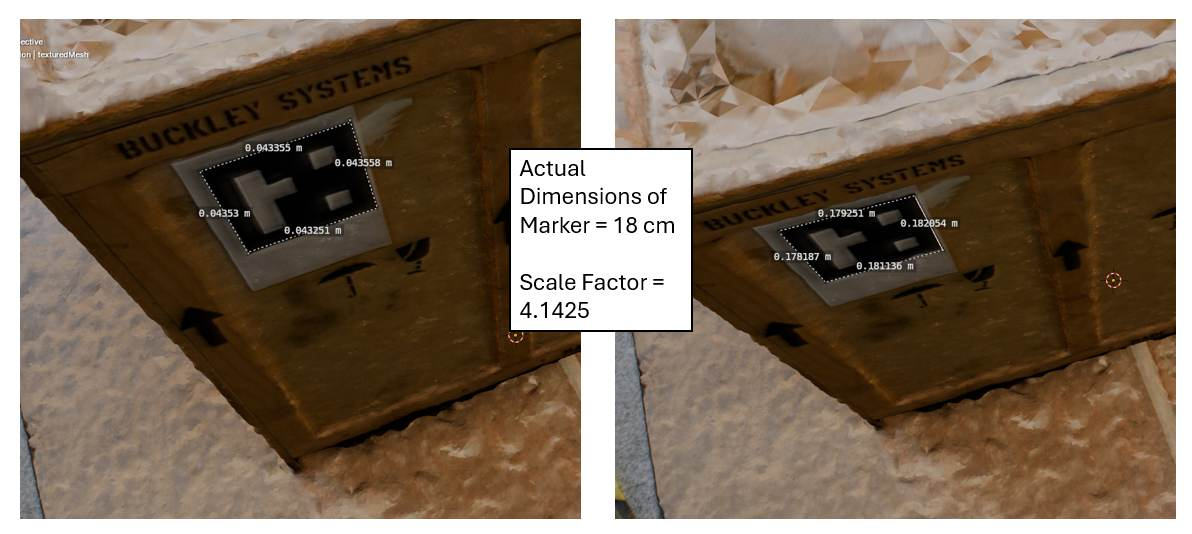
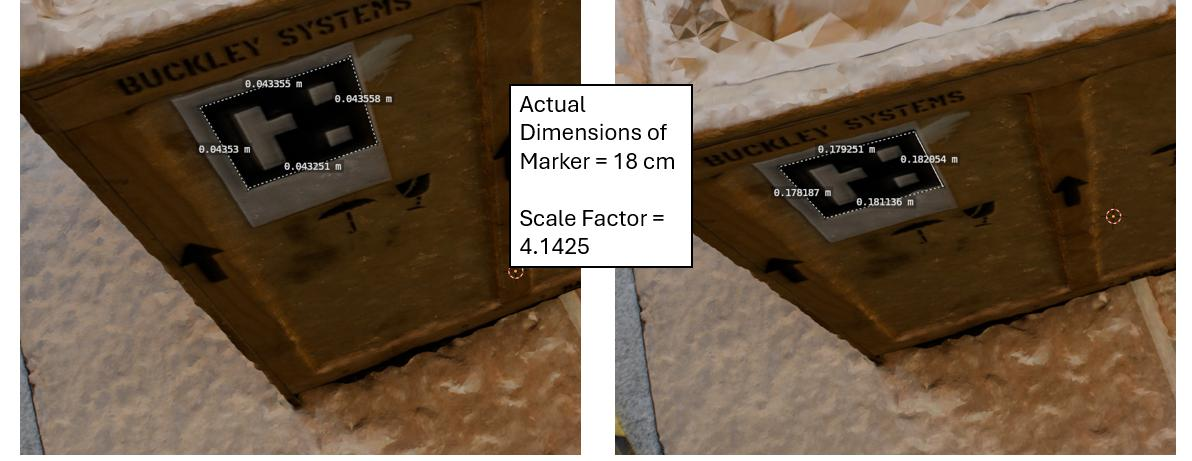
Swap in cleaner raster/debris figures and re-crop review nits

diff --git a/js/projects.js b/js/projects.js
@@ -102,8 +102,8 @@
       },
       figures: [
         { src: 'assets/projects/raster/pipeline.jpg', alt: 'flow diagram of the RASTER pipeline from input images and fiducial detection to an absolute-scaled, oriented 3D reconstruction', caption: 'the raster pipeline, from marker detection to a scaled mesh' },
-        { src: 'assets/projects/raster/rescaled.jpg', alt: 'two views of a crate mesh with an aruco marker, measured before and after rescaling, with an 18 cm real marker and a scale factor of 4.1425', caption: 'marker edges measured 4 cm before rescale, 18 cm after' },
-        { src: 'assets/projects/raster/detect.jpg', alt: 'synthetic scene of a small hut on a wooden deck with a green box around it and two aruco markers on the floor', caption: 'aruco markers and the object found in a synthetic scene' }
+        { src: 'assets/projects/raster/rescaled.jpg', alt: 'two views of a crate mesh with an aruco marker, measured before and after rescaling, with an 18 cm real marker and a scale factor of 4.1425', caption: 'the marker measures about 4 cm before rescaling and 18 cm after' },
+        { src: 'assets/projects/raster/clouds.jpg', alt: 'two point clouds of a skull model in orange: the left one still has stray points scattered around it, the right one is clean', caption: 'background subtraction: stray points left over (left) vs cleaned out (right)' }
       ] },
 
     { slug: 'nerf', title: 'NeRF, faster', where: 'IISc', year: 2024,
@@ -145,8 +145,8 @@
         ]
       },
       figures: [
-        { src: 'assets/projects/debris/detections.jpg', alt: 'four aerial photos of water and beach with red boxes around detected bottles and other trash', caption: 'yolov8 detections on drone shots of water and shoreline' },
-        { src: 'assets/projects/debris/pr-curves.jpg', alt: 'three precision-recall curves for yolov8m: standard 0.818, with tuned hyperparameters 0.847, with hyperparameters and wiou 0.861 mAP@0.5', caption: 'yolov8m precision-recall: 0.818, 0.847, then 0.861 mAP@0.5' }
+        { src: 'assets/projects/debris/detections.jpg', alt: 'two aerial photos, one of green water and one of a debris-covered shore, with red boxes and confidence scores around detected trash', caption: 'yolov8 detections on drone shots of water and shoreline' },
+        { src: 'assets/projects/debris/pr-curves.jpg', alt: 'two precision-recall curves for yolov8m, one at 0.818 mAP@0.5 and one at 0.861 mAP@0.5, the second hugging the top right corner more closely', caption: 'yolov8m precision-recall: 0.818 mAP@0.5 standard, 0.861 with tuned hyperparameters and wiou' }
       ] }
   ];
   // ═══════════════════════════════════════════════════════════════════════════

diff --git a/projects/debris.html b/projects/debris.html
@@ -40,8 +40,8 @@
           <section><h2>results</h2><ul><li>YOLOv8m went from 81.7% to 86.1% mAP@50</li><li>Wise-IoU hurt the largest models</li><li>YOLOv8l and YOLOv8x lost a lot of precision with Wise-IoU, which the paper puts down to computational limits</li><li>hyperparameter tuning (rotation 45 degrees, flips 0.5 and 0.6, MixUp 0.05) lifted YOLOv8s from 80.8% to 83.5% mAP@50</li></ul></section>
         </div>
       <div class="proj-figs">
-        <figure><img src="../assets/projects/debris/detections.jpg" alt="four aerial photos of water and beach with red boxes around detected bottles and other trash" loading="lazy"><figcaption>yolov8 detections on drone shots of water and shoreline</figcaption></figure>
-        <figure><img src="../assets/projects/debris/pr-curves.jpg" alt="three precision-recall curves for yolov8m: standard 0.818, with tuned hyperparameters 0.847, with hyperparameters and wiou 0.861 mAP@0.5" loading="lazy"><figcaption>yolov8m precision-recall: 0.818, 0.847, then 0.861 mAP@0.5</figcaption></figure>
+        <figure><img src="../assets/projects/debris/detections.jpg" alt="two aerial photos, one of green water and one of a debris-covered shore, with red boxes and confidence scores around detected trash" loading="lazy"><figcaption>yolov8 detections on drone shots of water and shoreline</figcaption></figure>
+        <figure><img src="../assets/projects/debris/pr-curves.jpg" alt="two precision-recall curves for yolov8m, one at 0.818 mAP@0.5 and one at 0.861 mAP@0.5, the second hugging the top right corner more closely" loading="lazy"><figcaption>yolov8m precision-recall: 0.818 mAP@0.5 standard, 0.861 with tuned hyperparameters and wiou</figcaption></figure>
       </div>
       <div class="proj-pdf">
         <object data="../assets/papers/uav-debris-paper.pdf" type="application/pdf"><a href="../assets/papers/uav-debris-paper.pdf">open paper</a></object>

diff --git a/projects/raster.html b/projects/raster.html
@@ -41,8 +41,8 @@
         </div>
       <div class="proj-figs">
         <figure><img src="../assets/projects/raster/pipeline.jpg" alt="flow diagram of the RASTER pipeline from input images and fiducial detection to an absolute-scaled, oriented 3D reconstruction" loading="lazy"><figcaption>the raster pipeline, from marker detection to a scaled mesh</figcaption></figure>
-        <figure><img src="../assets/projects/raster/rescaled.jpg" alt="two views of a crate mesh with an aruco marker, measured before and after rescaling, with an 18 cm real marker and a scale factor of 4.1425" loading="lazy"><figcaption>marker edges measured 4 cm before rescale, 18 cm after</figcaption></figure>
-        <figure><img src="../assets/projects/raster/detect.jpg" alt="synthetic scene of a small hut on a wooden deck with a green box around it and two aruco markers on the floor" loading="lazy"><figcaption>aruco markers and the object found in a synthetic scene</figcaption></figure>
+        <figure><img src="../assets/projects/raster/rescaled.jpg" alt="two views of a crate mesh with an aruco marker, measured before and after rescaling, with an 18 cm real marker and a scale factor of 4.1425" loading="lazy"><figcaption>the marker measures about 4 cm before rescaling and 18 cm after</figcaption></figure>
+        <figure><img src="../assets/projects/raster/clouds.jpg" alt="two point clouds of a skull model in orange: the left one still has stray points scattered around it, the right one is clean" loading="lazy"><figcaption>background subtraction: stray points left over (left) vs cleaned out (right)</figcaption></figure>
       </div>
       <div class="proj-pdf">
         <object data="../assets/papers/raster-poster.pdf" type="application/pdf"><a href="../assets/papers/raster-poster.pdf">open poster</a></object>
